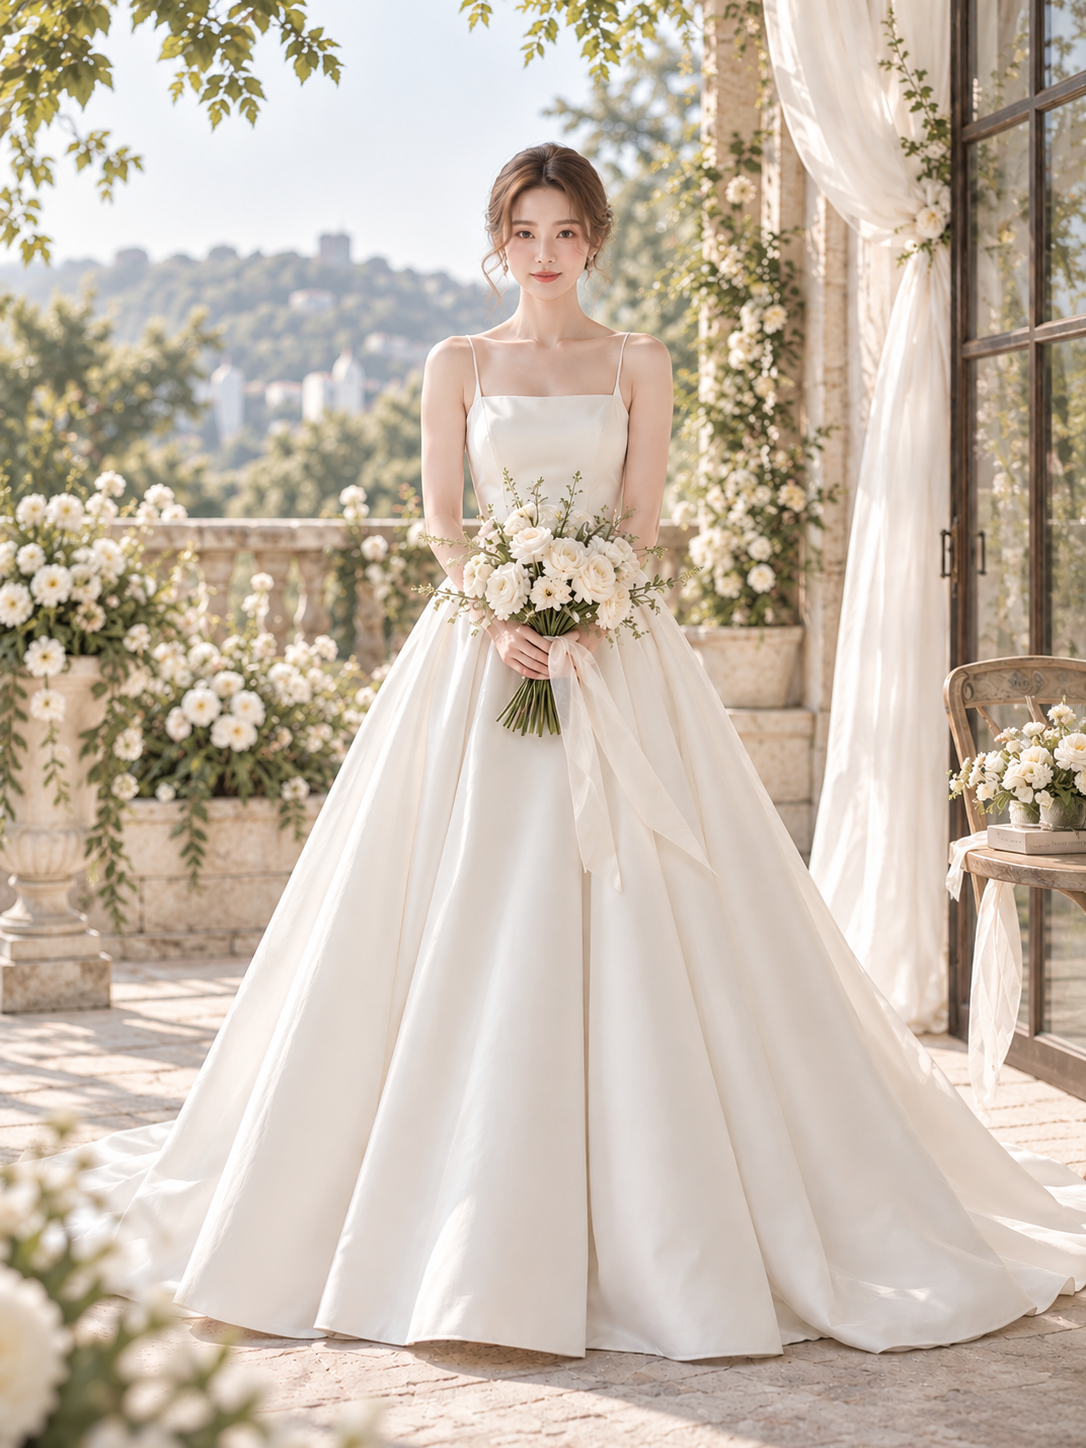
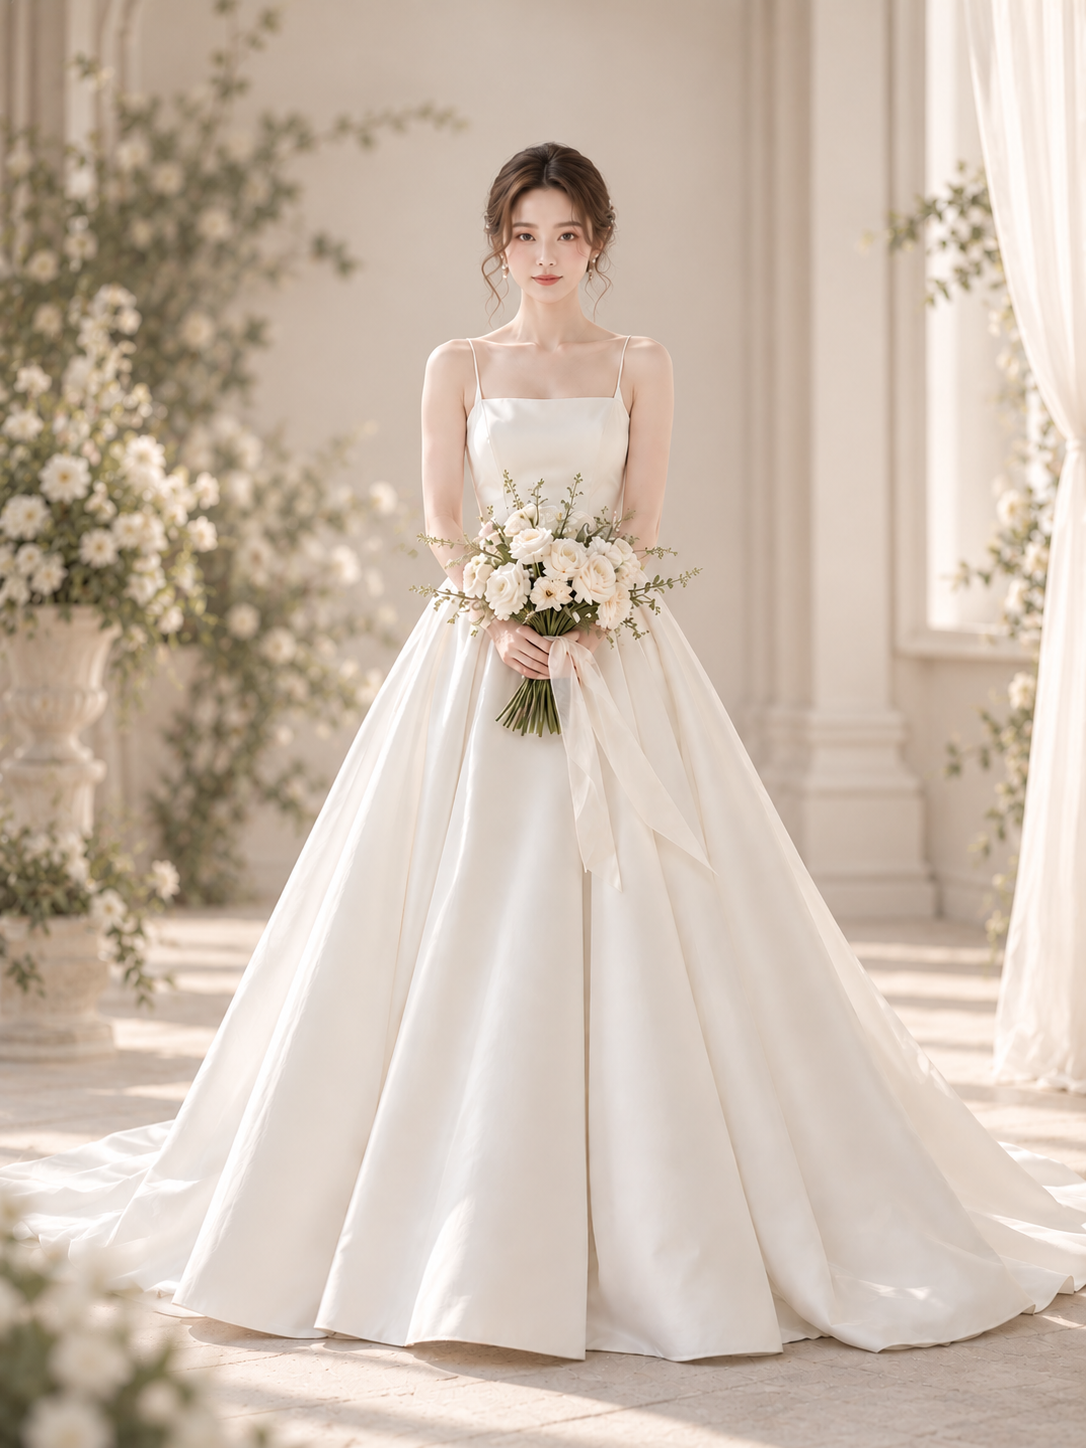
[정민지] 메인 카테고리 이미지와 문구 교체

diff --git a/index.html b/index.html
@@ -79,22 +79,22 @@
   <div class="home-transition" aria-label="SILUA 컬렉션">
     <div class="home-transition-inner">
       <p class="home-transition-logo">SILUA</p>
-      <p class="home-transition-copy"><span class="home-transition-emphasis">예쁜 옷을 입는 것보다,<br />나에게 어울리는 아름다움을 찾는 것.</span><span>SILUA는 셀프 웨딩에서 시작해<br />나에게 가장 어울리는 실루엣과 스타일을 제안합니다.</span></p>
+      <p class="home-transition-copy"><span class="home-transition-emphasis">특별한 날, 나를 위한 아름다움</span><span>나에게 가장 어울리는 실루엣과 스타일을 제안합니다.</span></p>
     </div>
   </div>
 
   <!-- ===== 메인 카테고리: 전용 사진을 받으면 이미지 경로만 교체하세요. ===== -->
   <section class="home-categories" id="themes" aria-label="SILUA 카테고리">
     <a class="home-category" data-theme-category="self-wedding" href="products.html?collection=self-wedding">
-      <figure><img src="images/theme-bridal.png?v=20260918-3" alt="브라이덜 컬렉션" /></figure>
+      <figure><img src="images/theme-bridal.png?v=20260918-4" alt="브라이덜 컬렉션" /></figure>
       <div class="home-category-copy"><h2>Self Weading</h2><p>인생의 주인공이 되는 날</p><span>자세히 보기 &gt;</span></div>
     </a>
     <a class="home-category" data-theme-category="evening-party" href="products.html?collection=evening-party">
-      <figure><img src="images/theme-evening.png?v=20260918-3" alt="이브닝 컬렉션" /></figure>
+      <figure><img src="images/theme-evening.png?v=20260918-4" alt="이브닝 컬렉션" /></figure>
       <div class="home-category-copy"><h2>Evening &amp; Party</h2><p>화려하게 빛나는 순간</p><span>자세히 보기 &gt;</span></div>
     </a>
     <a class="home-category" data-theme-category="wedding-attire" href="products.html?collection=wedding-attire">
-      <figure><img src="images/theme-modern.png?v=20260918-3" alt="모던 컬렉션" /></figure>
+      <figure><img src="images/theme-modern.png?v=20260918-4" alt="모던 컬렉션" /></figure>
       <div class="home-category-copy"><h2>Wedding Attire</h2><p>특별한 날의 레디투웨어</p><span>자세히 보기 &gt;</span></div>
     </a>
   </section>
